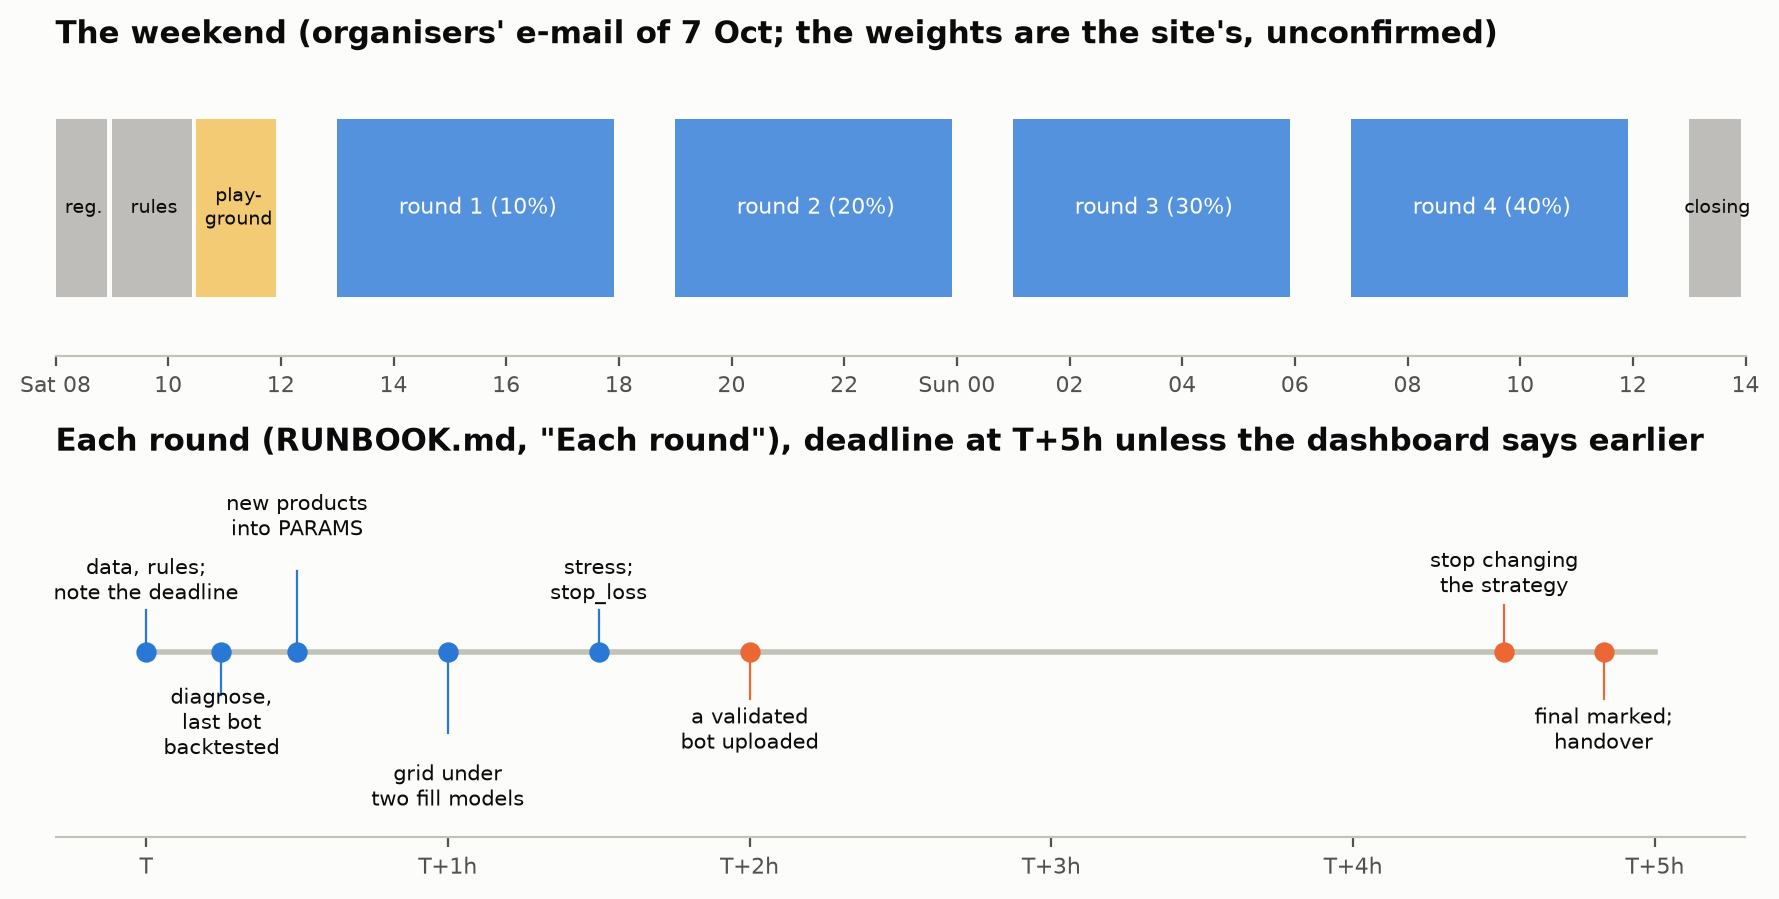
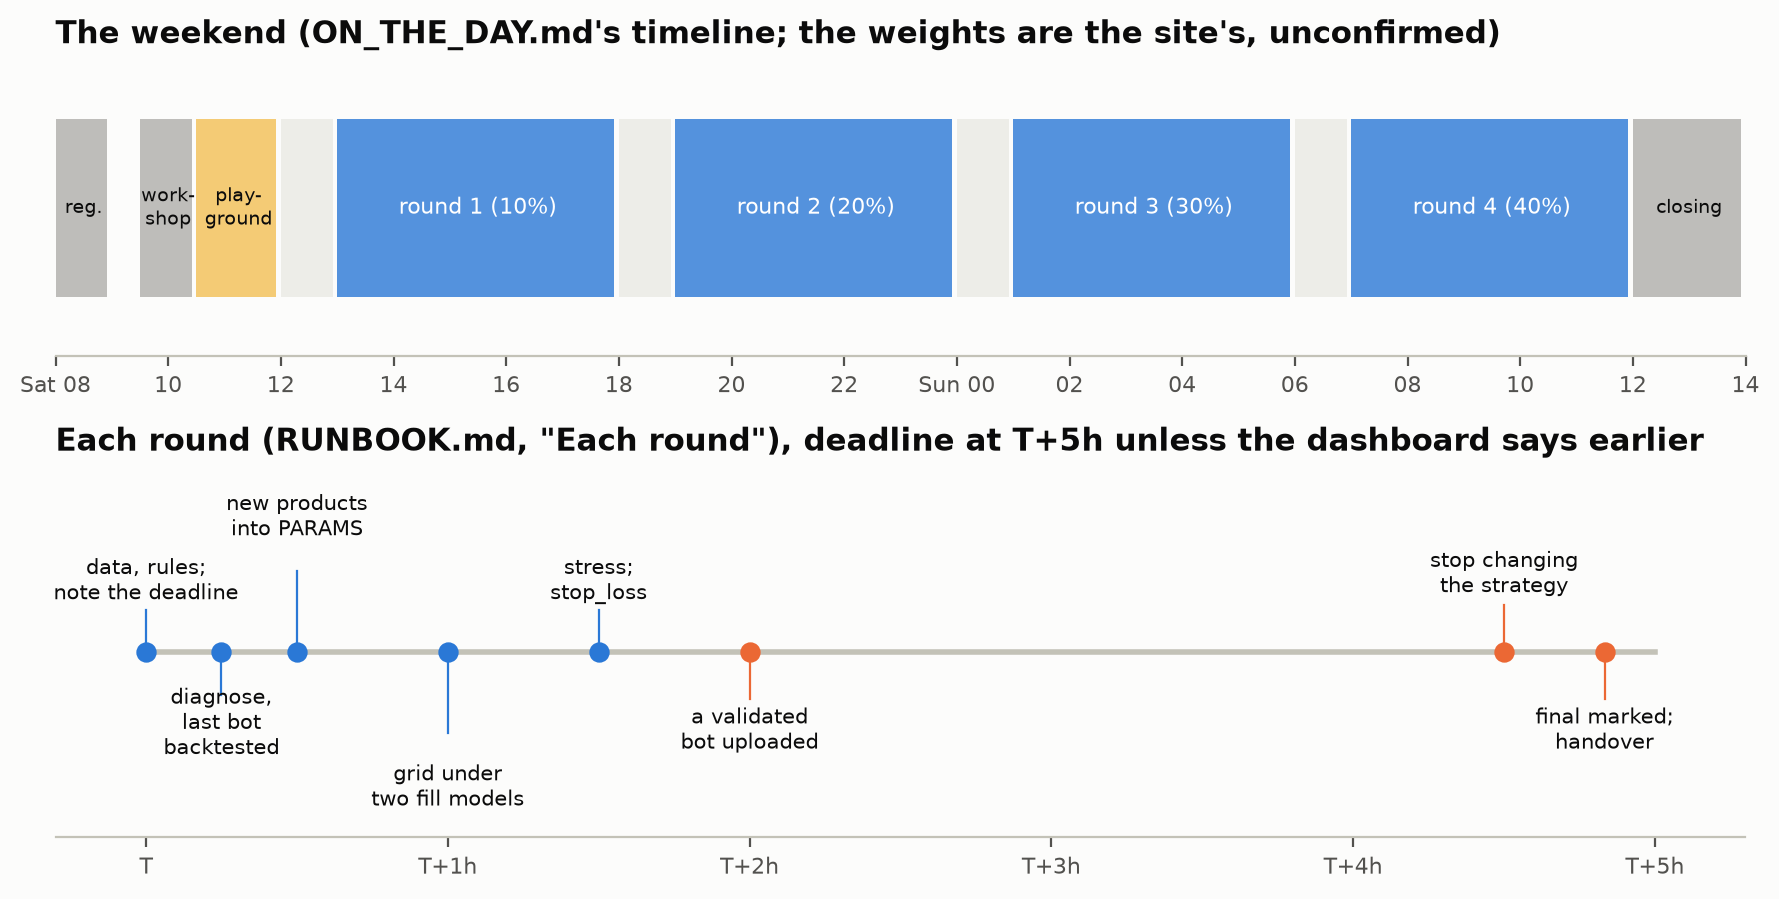
The auditor's review of the guidebook plans folded in: the field guide plan cites each figure's real source (the Varde sessions from the portal's evaluate, F7 in ABIDES's cents, F9's resting as queue back at 66,558, F12 from calibrate as of 3a2dcef), adds the installs and build order, a dated schedu

diff --git a/docs/guidebook/field_guide/scripts/make_figures.py b/docs/guidebook/field_guide/scripts/make_figures.py
@@ -397,15 +397,27 @@ def architecture():
 
 # -- F14 the day's timeline ---------------------------------------------------------------------------------------
 
+# Short labels for RUNBOOK's times; a time RUNBOOK adds shows its own text, so the figure can't drift silently.
+ROUND_LABELS = {0: "data, rules;\nnote the deadline", 0.25: "diagnose,\nlast bot\nbacktested", 0.5: "new products\ninto PARAMS",
+                1: "grid under\ntwo fill models", 1.5: "stress;\nstop_loss", 2: "a validated\nbot uploaded",
+                4.5: "stop changing\nthe strategy", 4.833: "final marked;\nhandover"}
+WEEKEND_LABELS = {"arrival, registration": "reg.", "opening ceremony": "", "workshop": "work-\nshop", "playground (90 min)": "play-\nground",
+                  "lunch": "", "dinner": "", "coffee break": "", "breakfast": "", "lunch, closing": "closing"}
+
+
 def timeline():
+    rows = read("timeline")
     fig, axes = plt.subplots(2, 1, figsize=(9, 4.6), gridspec_kw={"height_ratios": [1, 1.25]})
     ax = axes[0]
-    blocks = [(8, 9, "reg.", T["muted"]), (9, 10.5, "rules", T["muted"]), (10.5, 12, "play-\nground", YELLOW),
-              (13, 18, "round 1 (10%)", BLUE), (19, 24, "round 2 (20%)", BLUE), (25, 30, "round 3 (30%)", BLUE),
-              (31, 36, "round 4 (40%)", BLUE), (37, 38, "closing", T["muted"])]
-    for start, end, text, color in blocks:
-        ax.add_patch(plt.Rectangle((start, 0.2), end - start - 0.08, 0.6, facecolor=color + ("cc" if color == BLUE else "88"), edgecolor="none"))
-        ax.text((start + end) / 2, 0.5, text, ha="center", va="center", fontsize=8 if color == BLUE else 7, color="white" if color == BLUE else T["ink"])
+    for r in (r for r in rows if r["part"] == "weekend"):
+        start, end, label = float(r["start"]), float(r["end"]), r["label"]
+        is_round = label.startswith("round")
+        if not is_round and WEEKEND_LABELS.get(label, label) == "" and "lunch" not in label and "break" not in label and label != "dinner":
+            continue
+        color = BLUE if is_round else YELLOW if "playground" in label else T["grid"] if WEEKEND_LABELS.get(label) == "" else T["muted"]
+        ax.add_patch(plt.Rectangle((start, 0.2), end - start - 0.08, 0.6, facecolor=color + ("cc" if is_round else "88"), edgecolor="none"))
+        ax.text((start + end) / 2, 0.5, label if is_round else WEEKEND_LABELS.get(label, label), ha="center", va="center",
+                fontsize=8 if is_round else 7, color="white" if is_round else T["ink"])
     ax.set_xlim(8, 38)
     ax.set_ylim(0, 1)
     ax.set_yticks([])
@@ -413,14 +425,12 @@ def timeline():
     ax.set_xticks(hours, [f"{'Sat' if h < 24 else 'Sun'} {h % 24:02d}" if h in (8, 24) else f"{h % 24:02d}" for h in hours], fontsize=8)
     ax.grid(False)
     ax.spines["left"].set_visible(False)
-    ax.set_title("The weekend (organisers' e-mail of 7 Oct; the weights are the site's, unconfirmed)")
+    ax.set_title("The weekend (ON_THE_DAY.md's timeline; the weights are the site's, unconfirmed)")
     ax = axes[1]
-    steps = [(0, "data, rules;\nnote the deadline"), (0.25, "diagnose,\nlast bot\nbacktested"), (0.5, "new products\ninto PARAMS"),
-             (1, "grid under\ntwo fill models"), (1.5, "stress;\nstop_loss"), (2, "a validated\nbot uploaded"),
-             (4.5, "stop changing\nthe strategy"), (4.83, "final marked;\nhandover")]
+    steps = [(float(r["start"]), ROUND_LABELS.get(float(r["start"]), r["label"])) for r in rows if r["part"] == "round"]
     ax.plot([0, 5], [0, 0], color=T["axis"], linewidth=2)
     for k, (t, text) in enumerate(steps):
-        color = ORANGE if t in (2, 4.5, 4.83) else BLUE
+        color = ORANGE if t >= 2 else BLUE
         ax.scatter([t], [0], color=color, s=40, zorder=3)
         y = [0.5, -0.5, 0.95, -0.95][k % 4] if t < 1.6 else (0.55 if k % 2 == 0 else -0.55)
         ax.plot([t, t], [0, y * 0.6], color=color, linewidth=0.8)

diff --git a/docs/guidebook/field_guide/scripts/make_data.py b/docs/guidebook/field_guide/scripts/make_data.py
@@ -251,8 +251,45 @@ def calibrate() -> None:
           "--vary fill_ratio=1,0.5", ["setting", "engine_setting", "figure", "portal", "ours", "error"], rows)
 
 
+# -- The day, from the docs ---------------------------------------------------------------------------------------
+
+def table(path: Path, heading: str) -> list[list[str]]:
+    """The first Markdown table under a heading, as rows of cells (the header and its rule left out)."""
+    lines = path.read_text().splitlines()
+    at = next(i for i, line in enumerate(lines) if line.startswith("#") and heading in line)
+    rows = []
+    for line in lines[at + 1:]:
+        if line.startswith("#"):
+            break
+        if line.startswith("|"):
+            rows.append([cell.strip() for cell in line.strip().strip("|").split("|")])
+        elif rows:
+            break
+    return [row for row in rows[1:] if not set(row[0]) <= set("-: ")]
+
+
+def timeline() -> None:
+    """F14: the weekend (ON_THE_DAY's timeline table) and one round (RUNBOOK's "Each round" table)."""
+    rows, day = [], 0
+    for when, official, _ in table(ROOT / "ON_THE_DAY.md", "The day: timeline and roles"):
+        if when.startswith("Sun"):
+            day = 24
+        h1, m1, h2, m2 = map(int, re.search(r"(\d\d):(\d\d)–(\d\d):(\d\d)", when).groups())
+        start, end = day + h1 + m1 / 60, day + h2 + m2 / 60
+        end += 24 if end <= start else 0
+        rows.append(["weekend", start, end, official.replace("**", "")])
+    for when, do in table(ROOT / "RUNBOOK.md", "Each round"):
+        found = re.match(r"T\+(\d):(\d\d)|deadline − (\d):(\d\d)", when)
+        if not found:
+            continue
+        at = int(found[1]) + int(found[2]) / 60 if found[1] else 5 - int(found[3]) - int(found[4]) / 60
+        rows.append(["round", round(at, 3), "", re.split(r"\. |; ", do.replace("`", ""))[0].strip()[:80]])
+    write("timeline", "ON_THE_DAY.md, \"The day: timeline and roles\" (hours from Saturday 00:00) and RUNBOOK.md, \"Each round\" "
+          "(hours from T, deadline at T+5)", ["part", "start", "end", "label"], rows)
+
+
 STEPS = {"order_book": order_book, "mid_and_wall": mid_and_wall, "copies": copies, "fill_modes": fill_modes,
-         "kelp_grid": kelp_grid, "shuffle": shuffle, "smile_window": smile_window, "varde": varde, "calibrate": calibrate}
+         "kelp_grid": kelp_grid, "shuffle": shuffle, "smile_window": smile_window, "varde": varde, "calibrate": calibrate, "timeline": timeline}
 
 
 def main() -> int:

diff --git a/docs/guidebook/FIELD_GUIDE_PLAN.md b/docs/guidebook/FIELD_GUIDE_PLAN.md
@@ -18,7 +18,7 @@ write-up marked "their claim". Dataset-agnostic: each idea stated for any market
 |---|---|---|---|---|
 | 0 | Preface: how to read this | 300 | | |
 | 1 | What happens in a round? | 1,100 | the Varde rehearsal, end to end | F1 the round's loop |
-| 2 | What is an exchange? | 1,500 | the portal's identity: Session 1's cash −€2,815, position +€2,925, score €110 | F2 an order book; F3 the score's parts |
+| 2 | What is an exchange? | 1,500 | the portal's identity: Session 1's cash −€2,814.63, position +€2,924.84, score €110.21 (`data/sessions.csv`, from the portal's `evaluate`) | F2 an order book; F3 the score's parts |
 | 3 | What is the price? | 1,100 | a rival's far 40-lot order moved the fair by 44 | F4 mid against wall mid |
 | 4 | Why does a market maker earn anything? | 1,300 | a copy of the bot halves each one's income | F5 a round trip; F6 income against copies |
 | 5 | Who is on the other side? | 1,400 | ABIDES: the playbook lost, the shuffled days made +4.54M | F7 real against shuffled; F8 the smile window |
@@ -27,6 +27,9 @@ write-up marked "their claim". Dataset-agnostic: each idea stated for any market
 | 8 | What does the portal tell me? | 1,100 | the fee that was 28% of the gross | F12 calibrate's errors |
 | 9 | How is the code laid out? | 1,200 | the late-orders rehearsal: an ADAPTER bug, not a strategy | F13 the architecture |
 | 10 | What do I do on the day? | 1,000 | halving the stake kept first place (Qminers 2024) | F14 the day's timeline |
+
+Chapter 10 is a dated narrative of why the day runs as it does, pointing at `RUNBOOK.md` for every instruction; it
+gives no instruction RUNBOOK doesn't (the audit's round 8, R4: three copies of the day's rules already disagreed).
 | A | Glossary | 800 | | |
 
 Each chapter ends with the same four boxes: "If you know ML", "In the repo", "On the day", "Go deeper" (sections of the
@@ -41,18 +44,18 @@ commands. Diagrams are drawn in matplotlib too, so one script owns every image.
 |---|---|---|---|
 | F1 the round's loop | diagram | none | boxes: data → diagnose → bot → backtest/grid → validate → upload → metrics → calibrate → back |
 | F2 an order book | chart | one P3 round 1 Kelp tick, three levels a side | `load_days` on `--data p3` |
-| F3 the score's parts | bars | the Varde upload's three sessions | `mock_round/round4/private/portal.py` on `results/template.py` |
+| F3 the score's parts | bars | the Varde upload's three sessions | `mock_round/round4/private/portal.py`'s `evaluate` on `results/template.py` (no upload counted) |
 | F4 mid against wall mid | line | 300 ticks of P3 round 1 Kelp | `load_days` |
 | F5 a round trip | price, position and PnL | Varde LUMEN, session 1, steps 0–399 | the portal's fills |
 | F6 income against copies | bars | 81,292 alone; about 41k each with one copy; about 28k each with two | `IDEAS.md`, "The template against copies of itself" |
-| F7 real against shuffled | bars | ABIDES: real −21,798 and shuffled +4.54M; Kelp: 27,390 and 27,326 | `IDEAS.md`, the ABIDES rows (L238 area) |
-| F8 the smile window | line | `smile_window` 20 / 200 / 1,000 / 5,000 / 20,000 on P2's coupon | the IDEAS row's `arena.grid` command (cells as printed) |
-| F9 PnL under each fill model | bars | P3 round 1: all 72,674, worse 63,302, none 28,217, resting 66,562 | `arena.backtest` in each mode |
+| F7 real against shuffled | bars | ABIDES: real −21,798 and shuffled +4,540,545, **in cents** (ABIDES's own unit: −$218 and +$45,405); Kelp: 27,390 and 27,326 credits | the IDEAS row's `arena.grid ... --permute 20`, run by `make_data.py` |
+| F8 the smile window | line | `smile_window` 20 / 200 / 1,000 / 5,000 / 20,000 on P2's coupon, `take_edge` 0.5 | the IDEAS row's `arena.grid` command, run by `make_data.py` |
+| F9 PnL under each fill model | bars | P3 round 1: all 72,674, worse 63,302, none 28,217, resting 66,558 (`--resting`, queue `back`, the default; the queue model changes it) | `arena.backtest` in each mode |
 | F10 the grid under two fill models | two heatmaps | Kelp `make_edge` × `take_edge` on P3 round 1, Kelp's own PnL | `arena.grid ... --out` (as `sim_fit --compare` ran it) |
 | F11 days as folds | diagram | none | leave-one-day-out over three days, against k-fold |
-| F12 calibrate's errors | dots | the Varde upload, three settings | `experiments.day.calibrate` through the round's plug-in |
+| F12 calibrate's errors | dots | the Varde upload: the per-figure errors of calibrate's best-ranked setting and of the one closest on the fills, against its 5% line | `experiments.day.calibrate` as of bc8569c, through the round's plug-in, `--vary fill_ratio=1,0.5` |
 | F13 the architecture | diagram | none | `research/repo_map.md`, A |
-| F14 the day's timeline | diagram | the schedule in `ON_THE_DAY.md`, "Known so far" | |
+| F14 the day's timeline | diagram | the weekend from `ON_THE_DAY.md`'s "The day: timeline and roles" table, the round from `RUNBOOK.md`'s "Each round" table | parsed from both by `make_data.py`, so the figure follows the docs |
 
 ## Formulas, each with its spoken sentence
 
@@ -71,10 +74,18 @@ At most one or two per chapter. In the source each is `[$...$]{speak="..."}` (in
 
 ## Builds
 
+**Installs** (done 2026-11-04): Quarto 1.8.25 from its macOS tarball in `~/.local/quarto` (the Homebrew cask's pkg
+needs an admin password), TinyTeX through `quarto install tinytex`; pandoc, ffmpeg and `say` were present. Kokoro is
+installed only when the voice step runs, and `say` stays the fallback. Charts run under `uv run --group analysis`
+(matplotlib) in `arena.analysis.THEMES`' light palette.
+
+**Order:** HTML and the audio text first, then PDF and EPUB, the voice last.
+
 - `quarto render` in `field_guide/`: HTML, PDF (TinyTeX), EPUB (MathML).
 - **Audio text:** `field_guide/scripts/audio.lua`, run through `quarto pandoc` on each chapter, writes `_audio/<chapter>.txt`:
   - math becomes its `speak` sentence (a formula without one is reported, and the build fails);
-  - tables are dropped, with any `.content-visible when-format="audio"` summary kept;
+  - tables are dropped, with any `.content-visible when-format="audio"` summary kept (so the glossary is a definition
+    list, not a table);
   - code becomes "the command is in the printed edition";
   - a figure becomes "Figure: <its alt text>".
 - **Voice:** `field_guide/scripts/voice.sh`. It uses Kokoro (local, open weights) where installed, else macOS `say`, renders one audio file per chapter, and joins them with ffmpeg into one `.m4b` with chapter marks.
@@ -91,4 +102,17 @@ At most one or two per chapter. In the source each is `[$...$]{speak="..."}` (in
 5. No chapter assumes a term before chapter 2 has defined it, except chapter 1, which is a tour.
 6. The ML analogies say where they break.
 7. The audio text reads sensibly with no formula, table or code read out as symbols.
-8. The four markets are kept apart: nothing measured on Prosperity is stated as a fact about the Arena.
+8. The four markets are kept apart: nothing measured on Prosperity is stated as a fact about the Arena, and each
+   number names its unit (Prosperity's credits, ABIDES's cents, the Varde portal's euros).
+9. Every opening story matches the Source line in `research/stories.md` (stories are where embellishment creeps in).
+10. No instruction for the day that `RUNBOOK.md` doesn't give.
+
+## Schedule and cut line
+
+- **4 Nov:** the data and figures (done, a391c5d); chapter 6, "Why is my backtest lying?", as the sample, built to
+  HTML for the user to read. Its depth and length set the rest.
+- **4–5 Nov:** chapters 2, 4, 7 and 8 (the most for the day), then 1, 3, 5, 9, 10 and the glossary.
+- **5 Nov, before the 18:00 usage reset:** the fact-check pass (the checklist above) by a second agent.
+- **6 Nov:** PDF, EPUB, the audio text and the voice. Ready a day before the event.
+- **If time runs out,** the guide ships with chapters 2, 4, 6, 7 and 8 and the glossary; chapter 1's tour and the rest
+  follow after the event as part of the guidebook.

diff --git a/docs/guidebook/GUIDEBOOK_PLAN.md b/docs/guidebook/GUIDEBOOK_PLAN.md
@@ -14,6 +14,8 @@ rounds, which the field guide can't have, run through every chapter as the main 
 the prep used.
 
 **Starts when:** the event is over and its four `data/arena/round*/HANDOVER.md` notes and `leaderboard.json` exist.
+Chapter 16 and appendix E are only as good as those notes, which are written on 7–8 Nov (RUNBOOK, "Each round",
+deadline − 0:10).
 **Done when:** every chapter below is written, the auditor's checklist (end of this file) holds for all of them, and the
 HTML, PDF, EPUB, audio text and m4b build from a clean checkout.
 
@@ -124,7 +126,7 @@ is cited in the chapter.
 | 7 | half-life = ln 2 / κ, for a price pulled back at rate κ | the half-life is how long the price takes to close half its gap to the level | `mean-reverting-reference-price` |
 | 8 | basket spread = basket − Σ wᵢ × legᵢ | the spread is the basket's price less the weighted sum of its legs | ours (the template's `basket` mode) |
 | 8 | Black–Scholes delta = N(d₁) | an option's delta is how many units of the underlying move with it, the normal curve's area up to d-one | the source the wiki's `options-and-vouchers` page cites for it |
-| 10 | the queue's `prob` rule: a cancel ahead of us with probability f(back) / (f(back) + f(front)) | a cancel is more likely ahead of us the more of the queue is in front | hftbacktest, as `references/wiki/concepts/queue-position-and-fills.md` cites it |
+| 10 | our `--queue prob` rule: a cancellation lands ahead of us with probability x^N, x our share of the queue ahead, N `--queue-power` | a cancel is more likely to come from ahead of us the more of the queue is in front | ours (`python/arena/cli.py`'s `--queue-power`, the engine); the wiki's `queue-position-and-fills` page for the rule it came from |
 | 11 | PBO = P(the in-sample best ranks below the median out of sample) | (the field guide's) | `probability-of-backtest-overfitting` |
 | 11 | DSR: the Sharpe ratio deflated by the number of trials | (the sentence; the full expression in the print only) | `deflated-sharpe-ratio` |
 | 12 | pnlSe = sd of the session scores × √n | (the field guide's) | ours (`calibrate`; the portal) |
@@ -140,7 +142,7 @@ source line.
 
 | Figure | Data | Made by |
 |---|---|---|
-| G1 the Arena's round 1 (Arena) | the round's HANDOVER and upload log | hand-entered CSV from `data/arena/round1/HANDOVER.md`, its lines cited |
+| G1 the Arena's round 1 (Arena) | the round's HANDOVER and upload log | **hand-entered** CSV from `data/arena/round1/HANDOVER.md`, the exception to the committed-command rule: the caption says so and cites its lines |
 | G2 the data shapes | none | diagram |
 | G3 the signature plot | P3 round 1, one ABIDES day | `load_days`; the variance of h-tick mid changes over h |
 | G4 the Bouchaud margin | IDEAS "Does making pay" (L172) | its command |
@@ -160,7 +162,7 @@ source line.
 | G18 CSCV's splits | none | diagram |
 | G19 calibrate on the Arena (Arena) | the Arena's first upload | `experiments.day.calibrate` through the day's plug-in |
 | G20 rank against the stake | a simulated final | a Monte Carlo in `make_data.py` (seeded), after the Qminers 2024 winner's method |
-| G21 the rounds' weights (Arena) | the 10/20/30/40 weights and our rounds' PnL | `leaderboard.json` |
+| G21 the rounds' weights (Arena) | the rounds' real weights and our rounds' PnL | parsed from `data/arena/round*/leaderboard.json` by `make_data.py`; the weights from the Technical Rules, cited |
 | G22 one tick through the template | none | diagram |
 | G23 the parameters by verdict | `IDEAS.md`'s rows | parsed from `IDEAS.md` by `make_data.py` |
 
